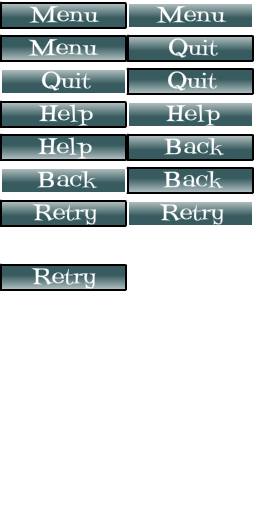
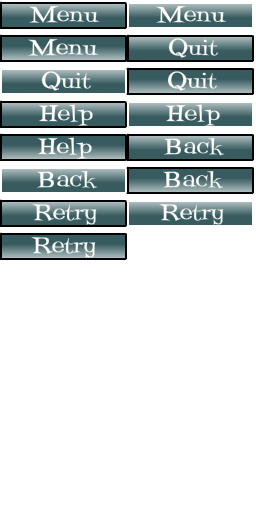
fixed buttons, did other stuff

Changed region(s): [[0.0, 0.4375, 0.5, 0.5938]]

diff --git a/Tribble Defense/game.js b/Tribble Defense/game.js
@@ -398,7 +398,7 @@ function initSprites() {
     
     var miniButtonSheet = new createjs.SpriteSheet({
         images: [queue.getResult("miniButton")],
-        frames: {width: 127, height: 38, regX: 64, regY: 19},
+        frames: {width: 127, height: 34, regX: 64, regY: 17},
         animations: {
         miniMenuUp:   [0, 0, "miniMenuUp"],
         miniMenuOver: [1, 1, "miniMenuOver"],
@@ -1850,7 +1850,7 @@ function Level(title,world,turns,goalamount,gameSize,numStatic){
     this.setupGrid = function(container){
         titleText.text = this.title;
         turnsText.text = this.game.getTurnCount();
-        pop.text = "Pop: " + this.game.getPopulation();
+        pop.text = "Pop: " + Math.floor(this.game.getPopulation());
         goal.text = " / "+ this.goalAmount;
         
         this.grid = new Grid(container, this.game.getDims(),new Coord(30,50),new Coord(500,500));
@@ -1910,7 +1910,16 @@ function Level(title,world,turns,goalamount,gameSize,numStatic){
     };
     
     this.update = function(){
-        turnsText.text=this.game.getTurnCount();
+        keyToggles.map(function(item) { item.update();});
+        var currentTurns = this.game.getTurnCount();
+        if(currentTurns>500){
+            turnsText.text="INF";
+            this.game.turns=900;
+            goal.text = "";
+        }
+        else{
+            turnsText.text=currentTurns;
+        }
         if(this.game.getTurnCount()===0){
             if(this.game.getPopulation()<this.goalAmount){
                 if(this.world==1){
@@ -2203,3 +2212,21 @@ function initGameScene(container) {
     };
 }
 //endregion
+
+
+
+
+
+var keyToggles = [];
+
+
+var cheat = new KeyStateManager('J');
+cheat.onClick = function() {
+    //do what you want here
+};
+
+keyToggles.push(cheat);
+
+
+//place this in an update
+//keyToggles.map(function(item) { item.update();});
